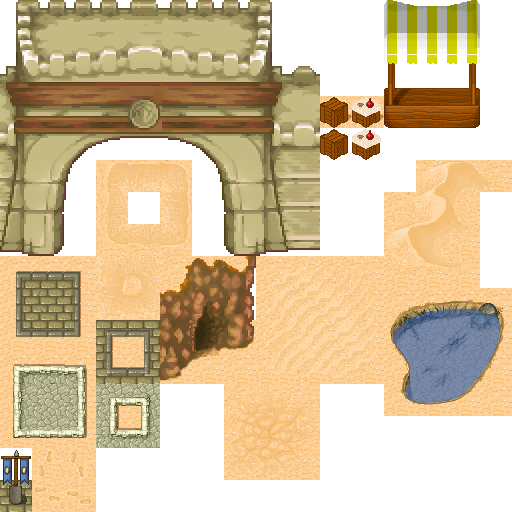
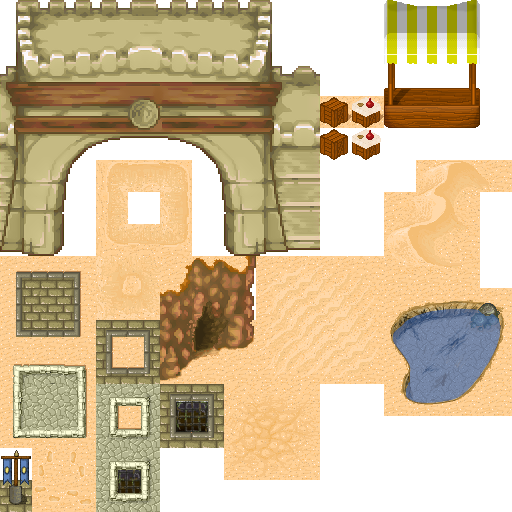
New cave tilesets: cave2_bilevel.png, cave2_bilevel_water_lava.png, cave2.png, cave2_sewer_mine.png, cave2_sewer_mine_x2.png, cave2_sewer_mine_x3.png, cave2_sewer_mine_x4.png, cave2_sewers.png, cave2_transistions.png, cave2_x2.png, cave2_x3.png Edited Desert2 to add the sewer entrance

Changed region(s): [[0.3125, 0.75, 0.4375, 0.875], [0.1875, 0.875, 0.3125, 1.0]]

diff --git a/tilesets/cave2_bilevel_water_lava.tsx b/tilesets/cave2_bilevel_water_lava.tsx
@@ -1,0 +1,4 @@
+<?xml version="1.0" encoding="UTF-8"?>
+<tileset name="cave2_bilevel_water_lava" tilewidth="32" tileheight="32">
+ <image source="../graphics/tiles/cave2_bilevel_water_lava.png" width="512" height="512"/>
+</tileset>

diff --git a/tilesets/cave2_sewer_mine_x4.tsx b/tilesets/cave2_sewer_mine_x4.tsx
@@ -1,0 +1,4 @@
+<?xml version="1.0" encoding="UTF-8"?>
+<tileset name="cave2_sewer_mine_x4" tilewidth="32" tileheight="128">
+ <image source="../graphics/tiles/cave2_sewer_mine_x4.png" width="512" height="128"/>
+</tileset>

diff --git a/tilesets/cave2_sewer_mine_x2.tsx b/tilesets/cave2_sewer_mine_x2.tsx
@@ -1,0 +1,4 @@
+<?xml version="1.0" encoding="UTF-8"?>
+<tileset name="cave2_sewer_mine_x2" tilewidth="32" tileheight="64">
+ <image source="../graphics/tiles/cave2_sewer_mine_x2.png" width="512" height="512"/>
+</tileset>

diff --git a/tilesets/cave2_sewer_mine_x3.tsx b/tilesets/cave2_sewer_mine_x3.tsx
@@ -1,0 +1,4 @@
+<?xml version="1.0" encoding="UTF-8"?>
+<tileset name="cave2_sewer_mine_x3" tilewidth="32" tileheight="96">
+ <image source="../graphics/tiles/cave2_sewer_mine_x3.png" width="256" height="96"/>
+</tileset>

diff --git a/tilesets/cave2_transistions.tsx b/tilesets/cave2_transistions.tsx
@@ -1,0 +1,4 @@
+<?xml version="1.0" encoding="UTF-8"?>
+<tileset name="cave2_transistions" tilewidth="32" tileheight="32">
+ <image source="../graphics/tiles/cave2_transistions.png" width="512" height="512"/>
+</tileset>

diff --git a/tilesets/cave2_sewer_mine.tsx b/tilesets/cave2_sewer_mine.tsx
@@ -1,0 +1,4 @@
+<?xml version="1.0" encoding="UTF-8"?>
+<tileset name="cave2_sewer_mine" tilewidth="32" tileheight="32">
+ <image source="../graphics/tiles/cave2_sewer_mine.png" width="512" height="512"/>
+</tileset>

diff --git a/tilesets/cave2_bilevel.tsx b/tilesets/cave2_bilevel.tsx
@@ -1,0 +1,4 @@
+<?xml version="1.0" encoding="UTF-8"?>
+<tileset name="cave2_bilevel" tilewidth="32" tileheight="32">
+ <image source="../graphics/tiles/cave2_bilevel.png" width="512" height="512"/>
+</tileset>

diff --git a/tilesets/cave2_sewers.tsx b/tilesets/cave2_sewers.tsx
@@ -1,0 +1,4 @@
+<?xml version="1.0" encoding="UTF-8"?>
+<tileset name="cave2_sewers" tilewidth="32" tileheight="32">
+ <image source="../graphics/tiles/cave2_sewers.png" width="512" height="288"/>
+</tileset>

diff --git a/tilesets/cave2_x2.tsx b/tilesets/cave2_x2.tsx
@@ -1,0 +1,4 @@
+<?xml version="1.0" encoding="UTF-8"?>
+<tileset name="cave2_x2" tilewidth="32" tileheight="64">
+ <image source="../graphics/tiles/cave2_x2.png" width="512" height="128"/>
+</tileset>

diff --git a/tilesets/cave2.tsx b/tilesets/cave2.tsx
@@ -1,0 +1,4 @@
+<?xml version="1.0" encoding="UTF-8"?>
+<tileset name="cave2" tilewidth="32" tileheight="32">
+ <image source="../graphics/tiles/cave2.png" width="512" height="512"/>
+</tileset>
